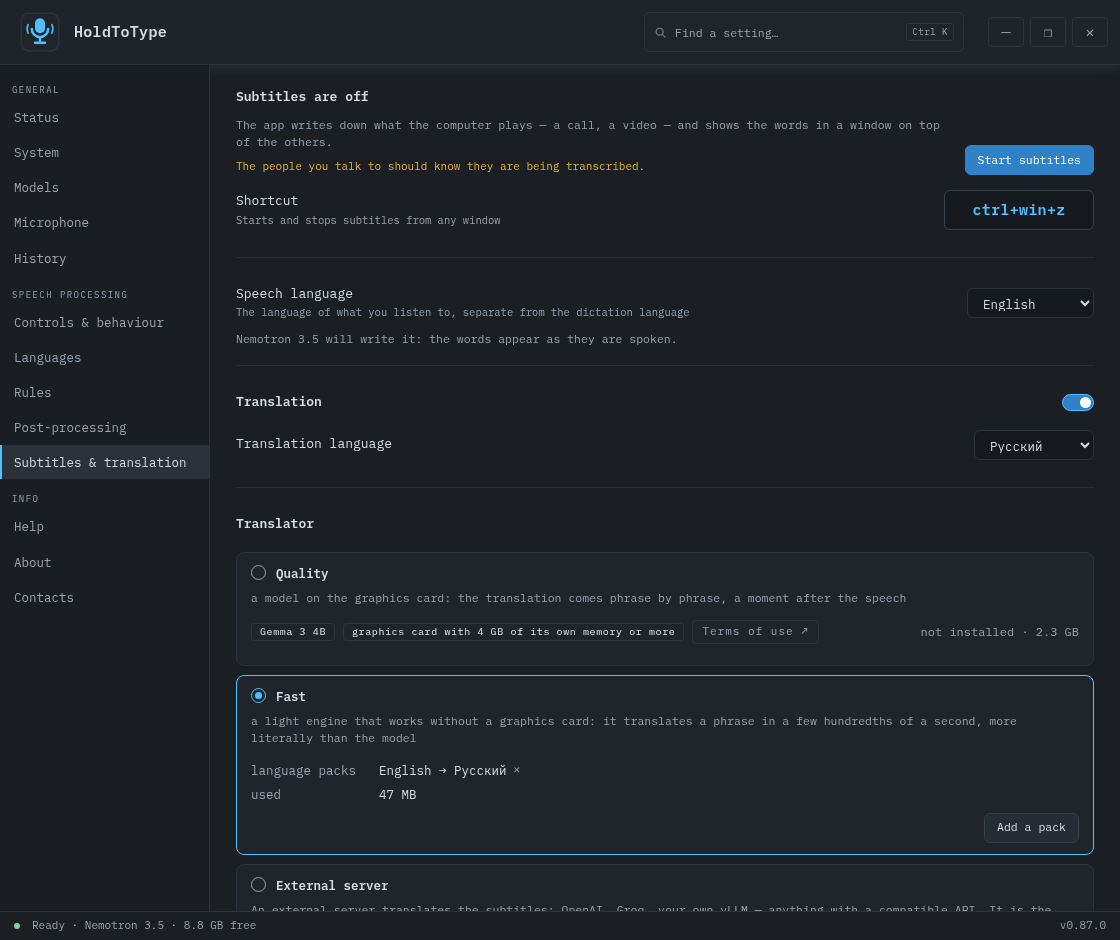
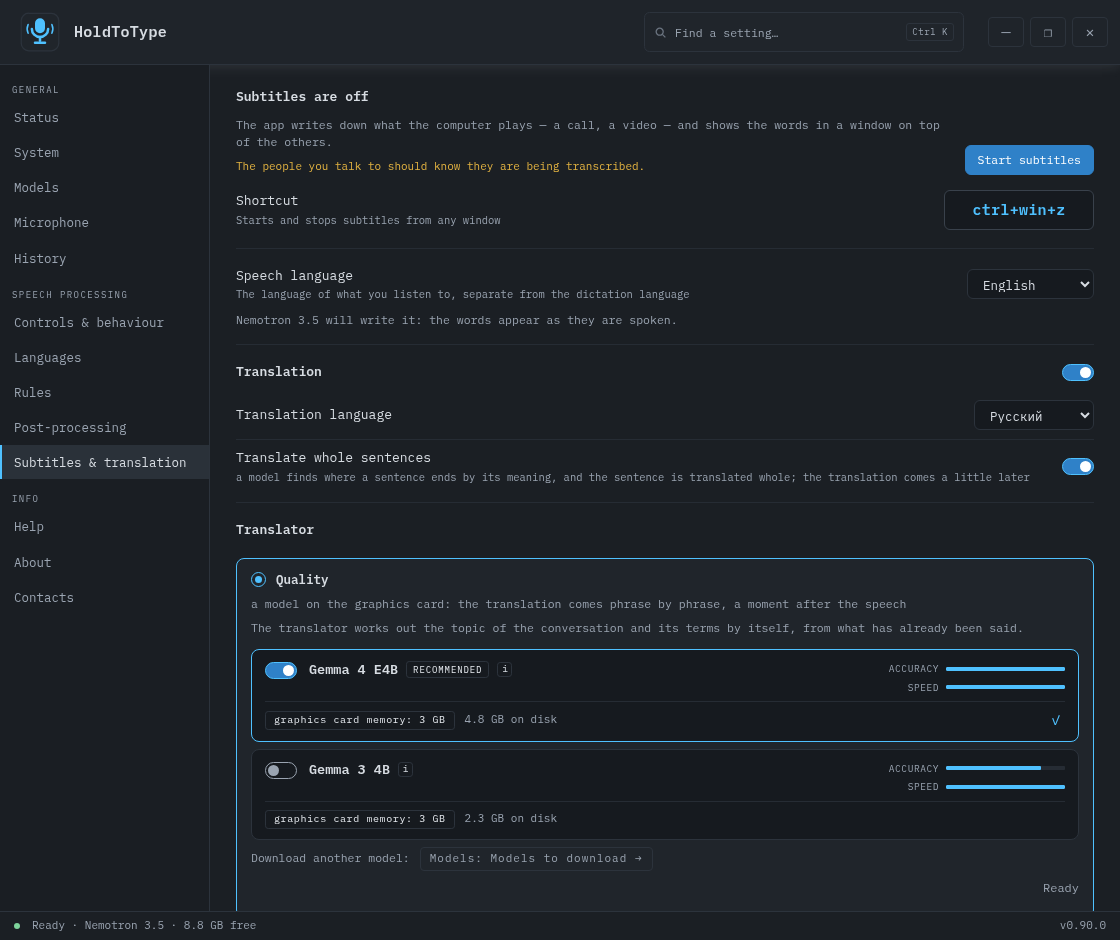
the readme shots show 0.90.0 with the save switch on status, whole sentences and the translation model cards on subtitles and the sentence end model on models, with captions to match and the installer size of today

diff --git a/README.md b/README.md
@@ -39,15 +39,15 @@ Every shot below is the Editor design, the default: dark grey with a blue accent
 
 | Status | System |
 |---|---|
-| [![Status: is everything ready, at a glance](docs/shot-state.png)](docs/shot-state.png) | [![System: language, design, updates, maintenance and the recognition server](docs/shot-system.png)](docs/shot-system.png) |
+| [![Status: is everything ready, at a glance, with the subtitles switches for translation, the window layout and saving the transcript](docs/shot-state.png)](docs/shot-state.png) | [![System: language, design, updates, maintenance and the recognition server](docs/shot-system.png)](docs/shot-system.png) |
 | **Models** | **Microphone** |
-| [![Every model in one place: installed, to download, the Hugging Face search, unloading when idle](docs/shot-library.png)](docs/shot-library.png) | [![Device, level meter and the microphone test](docs/shot-mic.png)](docs/shot-mic.png) |
+| [![Every model in one place: recognition, editing, subtitle translation and the sentence end model, unloading when idle and the checksum check](docs/shot-library.png)](docs/shot-library.png) | [![Device, level meter and the microphone test](docs/shot-mic.png)](docs/shot-mic.png) |
 | **History** | **Controls & behaviour** |
 | [![History with its retention and its exclusions](docs/shot-history.png)](docs/shot-history.png) | [![The shortcut, insertion and the on-screen plate](docs/shot-dictation.png)](docs/shot-dictation.png) |
 | **Languages** | **Rules** |
 | [![A model per language](docs/shot-models.png)](docs/shot-models.png) | [![Dictionary, replacements and voice commands](docs/shot-rules.png)](docs/shot-rules.png) |
 | **Post-processing** | **Subtitles & translation** |
-| [![The editor model and the prompt chain](docs/shot-post.png)](docs/shot-post.png) | [![Subtitles for what the computer plays: translation, the three translators and the window](docs/shot-subs.png)](docs/shot-subs.png) |
+| [![The editor model and the prompt chain](docs/shot-post.png)](docs/shot-post.png) | [![Subtitles for what the computer plays: translation in whole sentences and the Quality translator with its downloaded models](docs/shot-subs.png)](docs/shot-subs.png) |
 | **Help** | **About** |
 | [![The guide with its contents pinned to the right](docs/shot-help.png)](docs/shot-help.png) | [![Version and every external dependency with its licence](docs/shot-about.png)](docs/shot-about.png) |
 | **Contacts** | **Installer** |
@@ -93,7 +93,7 @@ Every shot below is the Editor design, the default: dark grey with a blue accent
 
 ### Option A — installer
 
-Download `holdtotype-setup.exe` from [Releases](https://github.com/Vitalii-Yemets/holdtotype/releases) and run it. The themed installer (~16 MB):
+Download `holdtotype-setup.exe` from [Releases](https://github.com/Vitalii-Yemets/holdtotype/releases) and run it. The themed installer (~68 MB):
 
 - installs without admin rights to `%LOCALAPPDATA%\Programs\HoldToType` (pick any folder via the browse button);
 - can download the recognition model right during installation (Nemotron 3.5, Parakeet TDT 0.6B v3, GigaAM v3, or Whisper Base / Small / Medium / Turbo) — by default it downloads nothing and the app fetches what its wizard proposes for the recognition language (GigaAM v3 for Russian, Parakeet for Polish, Nemotron 3.5 for English, Ukrainian, German, French, Spanish, Italian and several more, Whisper Medium for the rest; the download can be put off and picked up later on the Models tab); a download in progress can be stopped, and the installation still finishes;
